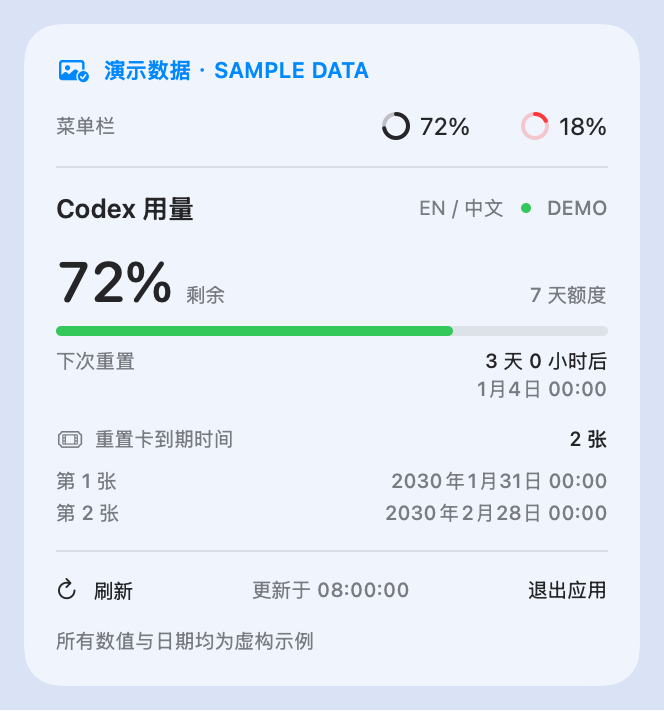
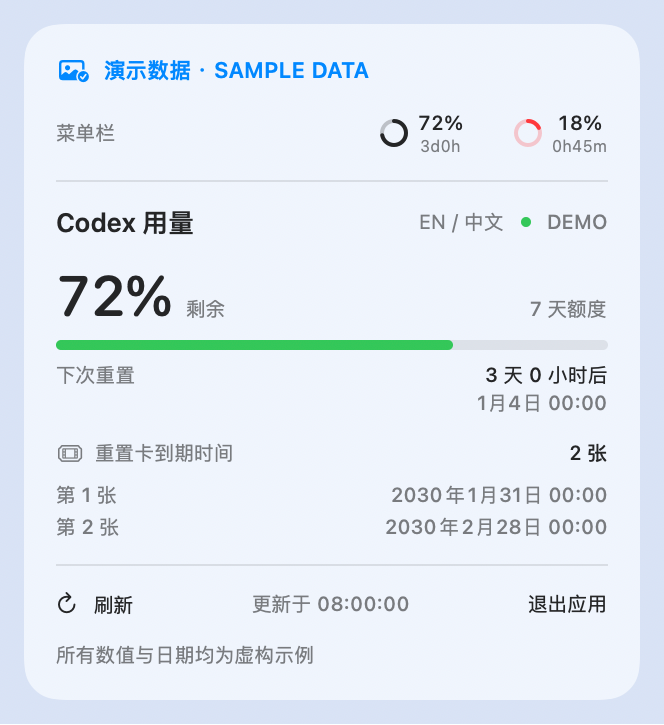
Require a release for every merged PR and prepare v1.8.0

diff --git a/script/render_demo.swift b/script/render_demo.swift
@@ -16,25 +16,33 @@ struct DemoProgressStyle: ProgressViewStyle {
 // Offline documentation fixture. No account, Codex process, network, or preferences are read.
 @main @MainActor
 struct DemoImage {
+    private static func menuBarItem(ring: QuotaRingState, percentage: String, countdown: String) -> some View {
+        HStack(spacing: 4) {
+            Image(nsImage: StatusItemRing.image(for: ring))
+                .renderingMode(ring.isLow ? .original : .template)
+            VStack(spacing: 0) {
+                Text(percentage).font(.system(size: 10, weight: .medium).monospacedDigit())
+                Text(countdown).font(.system(size: 8).monospacedDigit()).foregroundStyle(.secondary)
+            }
+        }
+    }
+
     static func main() throws {
         _ = NSApplication.shared
         let fixedNow = Date(timeIntervalSince1970: 1893456000) // 2030-01-01 00:00 UTC
         let data = Data(#"{"rateLimits":{"planType":"demo","primary":{"usedPercent":28,"windowDurationMins":10080,"resetsAt":1893715200}},"rateLimitResetCredits":{"availableCount":2,"credits":[{"status":"available","expiresAt":1896048000},{"status":"available","expiresAt":1898467200}]}}"#.utf8)
         let snapshot = try JSONDecoder().decode(QuotaSnapshot.self, from: data)
+        let status = UsageState(snapshot: snapshot, updatedAt: fixedNow, now: fixedNow).statusItem
         let content = VStack(alignment: .leading, spacing: 12) {
             Label("演示数据 · SAMPLE DATA", systemImage: "photo.badge.checkmark")
                 .font(.system(size: 11, weight: .semibold)).foregroundStyle(.blue)
             HStack(spacing: 4) {
                 Text("菜单栏").font(.caption).foregroundStyle(.secondary)
                 Spacer()
-                Image(nsImage: StatusItemRing.image(for: QuotaRingState(remaining: 72)))
-                    .renderingMode(.template)
-                Text("72%")
+                menuBarItem(ring: status.ring, percentage: status.title, countdown: status.countdown)
                 Spacer().frame(width: 16)
-                Image(nsImage: StatusItemRing.image(for: QuotaRingState(remaining: 18)))
-                    .renderingMode(.original)
-                Text("18%")
-            }.font(.system(size: 12))
+                menuBarItem(ring: QuotaRingState(remaining: 18), percentage: "18%", countdown: "0h45m")
+            }
             Divider()
             HStack {
                 Text("Codex 用量").font(.system(size: 13, weight: .semibold))

diff --git a/.github/release/plan.py b/.github/release/plan.py
@@ -9,15 +9,18 @@ import time
 from pathlib import Path
 from urllib.parse import urlencode
 
+from project import version_info
+
 
 def run(*args):
     return subprocess.check_output(args, text=True).strip()
 
 
 def version(ref):
-    tag = run(sys.executable, ".github/release/project.py", "version", ref)
+    number, build = version_info(ref)
+    tag = f"v{number}"
     version_key(tag)
-    return tag
+    return tag, int(build)
 
 
 def version_key(tag):
@@ -53,7 +56,7 @@ def main():
     event_name = os.environ["GITHUB_EVENT_NAME"]
     event = json.loads(Path(os.environ["GITHUB_EVENT_PATH"]).read_text())
     sha = os.environ["GITHUB_SHA"]
-    tag = version(sha)
+    tag, build = version(sha)
     check = event_name != "push"
     package = event_name == "workflow_dispatch"
     publish = False
@@ -64,11 +67,15 @@ def main():
     elif event_name == "push" and not event["created"] and not event["deleted"]:
         before = event["before"]
     if before:
-        old = version(before)
+        old, old_build = version(before)
         if event_name == "pull_request":
-            config_files = run("git", "diff", "--name-only", before, sha, "--",
-                               ".github/release", ".github/workflows/project-release.yml")
-            package = bool(config_files) or old != tag
+            if version_key(tag) <= version_key(old):
+                sys.exit(f"Every PR must increase the app version above {old}; found {tag}.")
+            if build <= old_build:
+                sys.exit(f"Every PR must increase the build number above {old_build}; found {build}.")
+            if run("git", "tag", "--list", tag):
+                sys.exit(f"Release tag {tag} already exists. Choose an unused version.")
+            package = True
         elif version_key(tag) > version_key(old):
             number = merged_pr(os.environ["GITHUB_REPOSITORY"], os.environ["GITHUB_REF_NAME"], sha)
             if number:

diff --git a/README.en.md b/README.en.md
@@ -4,7 +4,7 @@
 
 Check your Codex remaining quota, reset times, and reset-card expiry dates from the macOS menu bar.
 
-**Current recommended release: 1.6.2 (build 11).** Restored as the latest stable release on 2026-10-30. The token-accounting and monetary-estimate approach in 1.7.0 and 1.7.1 has been discontinued. The main branch restores the 1.6.2 app code and screenshot while retaining the MIT license.
+**Current recommended release is 1.8.0 (build 14).**
 
 **[Download the latest version](https://github.com/ccrrfftt/codex-usage-menubar/releases/latest)**
 
@@ -14,7 +14,7 @@ Check your Codex remaining quota, reset times, and reset-card expiry dates from 
 
 Screenshot uses fictional demo data only.
 
-- **Remaining-quota ring:** the arc follows your remaining allowance and turns red below 20%. The percentage stays beside it; click for details.
+- **Menu bar quota and reset.** The ring follows your remaining allowance and turns red below 20%. The percentage appears above the countdown for the same quota window. Click for details.
 - **Reset cards:** view the available count and each card's expiry date.
 - **Chinese and English:** click **EN / 中文** at the top right of the panel. Your choice is remembered.
 - **Automatic updates:** every minute on AC power, every 5 minutes on battery; paused while asleep or offline.
@@ -23,7 +23,7 @@ Screenshot uses fictional demo data only.
 
 Requires an **Apple Silicon Mac with macOS 14 or later**, and an installed Codex / ChatGPT desktop app signed in to your account.
 
-Version 1.6.2 is verified with Codex 26.928.20755 / CLI 0.159.0 and supports both system and user Applications folders. A clear warning appears when the server blocks included usage.
+The app searches both system and user Applications folders and recognizes renamed ChatGPT desktop installations. The bundled CLI path was checked against ChatGPT 26.1117.41037. A warning appears when the server blocks included usage.
 
 1. Download and unzip the latest `Codex-Usage-VERSION-macOS-arm64.zip`.
 2. Drag `Codex Usage.app` into **Applications**, then open it.

diff --git a/DEVELOPMENT.md b/DEVELOPMENT.md
@@ -68,9 +68,11 @@
 
 构建目录为 `.build/local`，也可以用 `CODEX_USAGE_BUILD_ROOT` 指定其他位置。日常构建默认为 Debug，可用 `CODEX_USAGE_CONFIGURATION=release` 覆盖；打包始终使用 Release。Codex 项目里的 Run 动作指向同一个构建入口。
 
-版本与构建号以 `script/build_and_run.sh` 生成的 Info.plist 为唯一来源。新增兼容功能增加次版本，修复增加补丁版本，每次发布递增构建号；`script/package.sh` 自动从 App 读取版本并将版本、平台和架构写入 ZIP 文件名。
+版本与构建号以 `script/build_and_run.sh` 生成的 Info.plist 为唯一来源。兼容的新功能升次版本，不兼容变更升主版本，修复和维护升补丁版本。`script/package.sh` 从 App 读取版本，并将版本、平台和架构写入 ZIP 文件名。
 
-准备发布的 PR 时，同时更新上述版本、构建号和 `CHANGELOG.md`。版本条目沿用 `## X.Y.Z · 日期`，测试版在同一标题末尾加上「预发布」。合入 `main` 后，发布流程读取新版本的变更记录，在 Apple Silicon 上运行检查、打包并核验 ZIP 内的版本、签名和 SHA-256，再发布该版本。普通 PR 保持应用版本不变。
+每个合入 `main` 的 PR 都发布一个新版本，文档、测试和 CI 改动也适用。合并前须将版本和构建号升至目标分支之上，使用尚未使用的版本号，并更新 `CHANGELOG.md`。条目沿用 `## X.Y.Z · 日期`，测试版在标题末尾加上「预发布」。其他 PR 先合入时，更新分支并重新递增版本和构建号。
+
+必需的 `plan` 检查拦截未升版、未递增构建号和已占用标签。合并前在 Apple Silicon 上运行检查、验证变更记录并打包，核验 ZIP 的版本、签名和 SHA-256。合入 `main` 后，从合并提交重新构建并验证，再发布 Git 标签、GitHub Release、安装包和校验文件。
 
 ## 结构
 

diff --git a/README.md b/README.md
@@ -4,7 +4,7 @@
 
 在 Mac 顶部菜单栏查看 Codex 剩余额度、重置时间和重置卡到期日期。
 
-**当前推荐版本：1.6.2（build 11）**。2026-10-30 恢复为最新正式版；1.7.0 和 1.7.1 的 Token 统计与金额估算方案已弃用。主分支恢复到 1.6.2 的应用代码与截图，保留 MIT 许可证。
+**当前推荐版本 1.8.0（build 14）**
 
 **[下载最新版](https://github.com/ccrrfftt/codex-usage-menubar/releases/latest)**
 
@@ -14,7 +14,7 @@
 
 截图仅使用虚构演示数据。
 
-- **圆环显示剩余额度**：弧长随剩余比例变化，低于 20% 变红；旁边保留百分比，点击展开详情。
+- **菜单栏额度与倒计时。** 圆环随剩余比例变化，低于 20% 变红。百分比在第一行，同一周期的重置倒计时在第二行。点击展开详情。
 - **查看重置卡**：显示可用数量，以及每张卡的到期时间。
 - **中英文切换**：在面板右上角点击「EN / 中文」，自动记住上次选择。
 - **按供电状态刷新**：插电每 1 分钟，电池每 5 分钟；休眠、离线时暂停。
@@ -23,7 +23,7 @@
 
 需要 **Apple Silicon Mac、macOS 14+**，并已安装、登录 Codex / ChatGPT 桌面应用。
 
-1.6.2 已验证兼容 Codex 26.928.20755 / CLI 0.159.0，支持系统和个人「应用程序」目录。服务端限制常规用量时，会显示明确提示。
+支持系统和个人「应用程序」目录，也能识别改名的 ChatGPT 桌面应用。已核对 ChatGPT 26.1117.41037 的内置 CLI 路径。服务端限制常规用量时，会显示明确提示。
 
 1. 下载并解压最新版的 `Codex-Usage-版本号-macOS-arm64.zip`。
 2. 把 `Codex Usage.app` 拖进「应用程序」，双击打开。

diff --git a/CHANGELOG.md b/CHANGELOG.md
@@ -1,9 +1,10 @@
 # 更新记录
 
-## 未发布
+## 1.8.0 · 2026-11-23
 
-- 菜单栏第二行显示当前额度周期的重置倒计时。
-- 标准安装路径找不到 CLI 时，可通过 Bundle ID 识别改名的 ChatGPT 桌面应用。
+- 菜单栏第二行显示与剩余百分比对应的重置倒计时。缺少重置时间或已到期时显示 `—`。
+- 标准安装路径找不到 CLI 时，可通过 Bundle ID 识别改名的 ChatGPT 桌面应用。兼容新版内置 CLI 的启动入口。
+- 每个合入 `main` 的 PR 都须升版，并通过测试和打包验证后发布。
 
 ## 2026-10-30 · 恢复 1.6.2 为最新正式版
 
@@ -21,7 +22,7 @@
 ## 1.7.0 / 1.7.1 · 2026-10-03 · 已弃用
 
 - 曾加入 Token 统计、Standard API 等值金额、项目范围与订阅周期统计。
-- 此方案已于 2026-10-30 撤回；请使用 1.6.2。原始说明保留在对应标签和发布页中。
+- 此方案已于 2026-10-30 撤回，当时的推荐版本恢复为 1.6.2。原始说明保留在对应标签和发布页中。
 
 ## 1.6.2 · 2026-09-30
 
